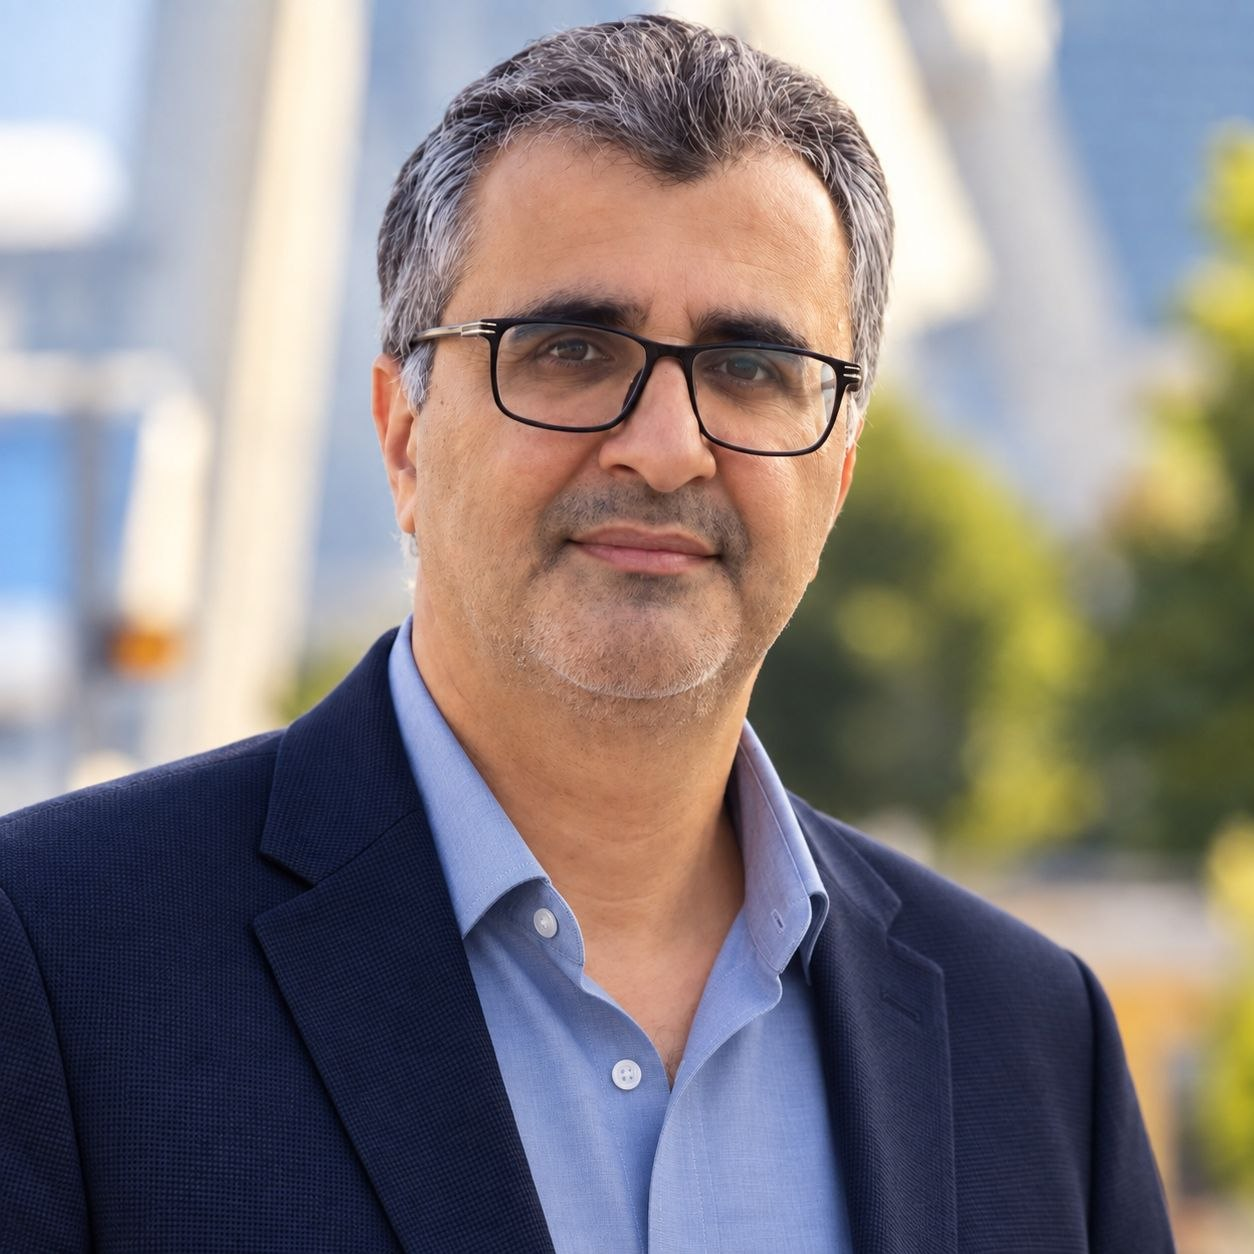
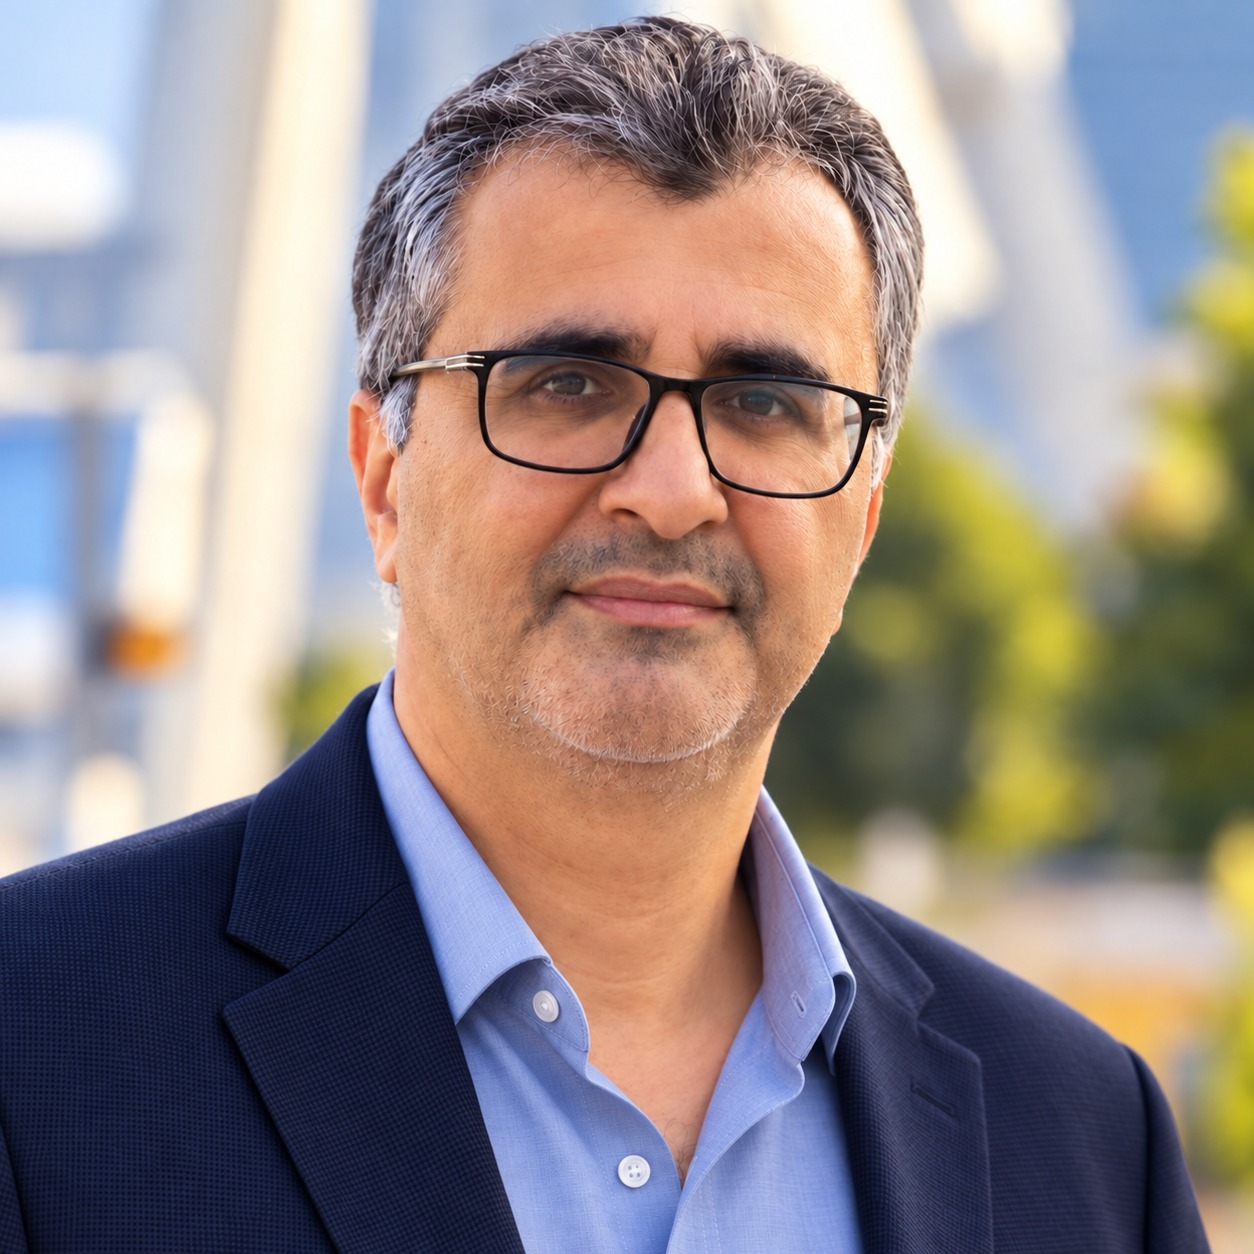
Our Team: Reza Moafi is also Executive Director (one profile, new portrait); add Mina Karimian
Claude-Session: https://claude.ai/code/session_019XEtJNrDNrDMfgx6MbWgad

diff --git a/src/content.config.ts b/src/content.config.ts
@@ -354,6 +354,8 @@ const team = defineCollection({
   schema: ({ image }) =>
     z.object({
       name: z.string().min(1),
+      /** The name in Persian script, shown on the Persian page (optional). */
+      nameFa: z.string().optional(),
       /** Official position or role. */
       role: bi,
       /** Short professional biography (two or three sentences), shown on the card. */

diff --git a/src/content/team/README.md b/src/content/team/README.md
@@ -15,6 +15,7 @@ on the local preview (`npm run dev`).
 
 ```yaml
 name: 'Prénom Nom'
+# nameFa: '…'        (optional, the name in Persian script)
 role:
   fr: 'Titre officiel'
   en: 'Official title'
